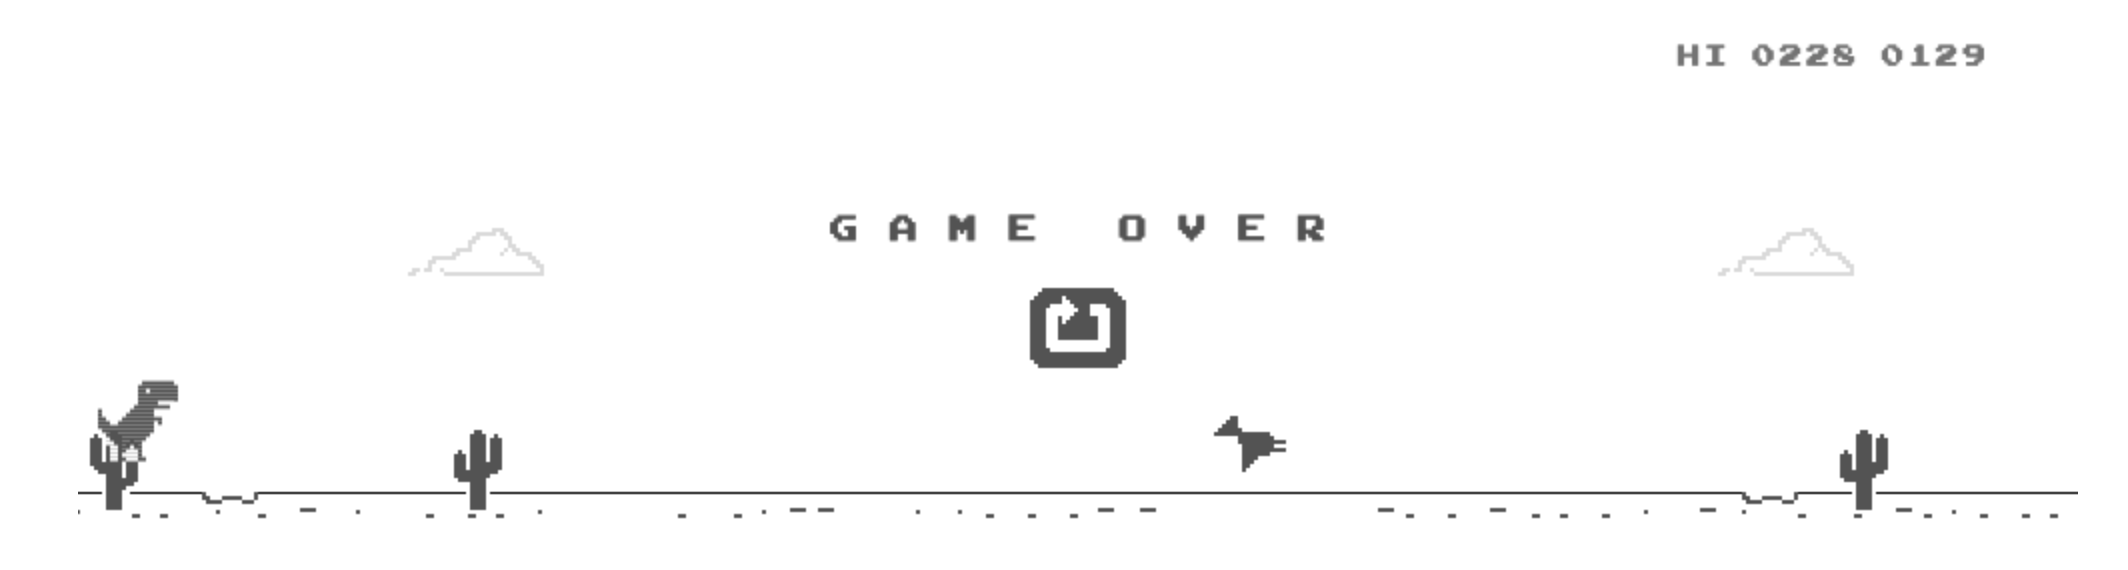
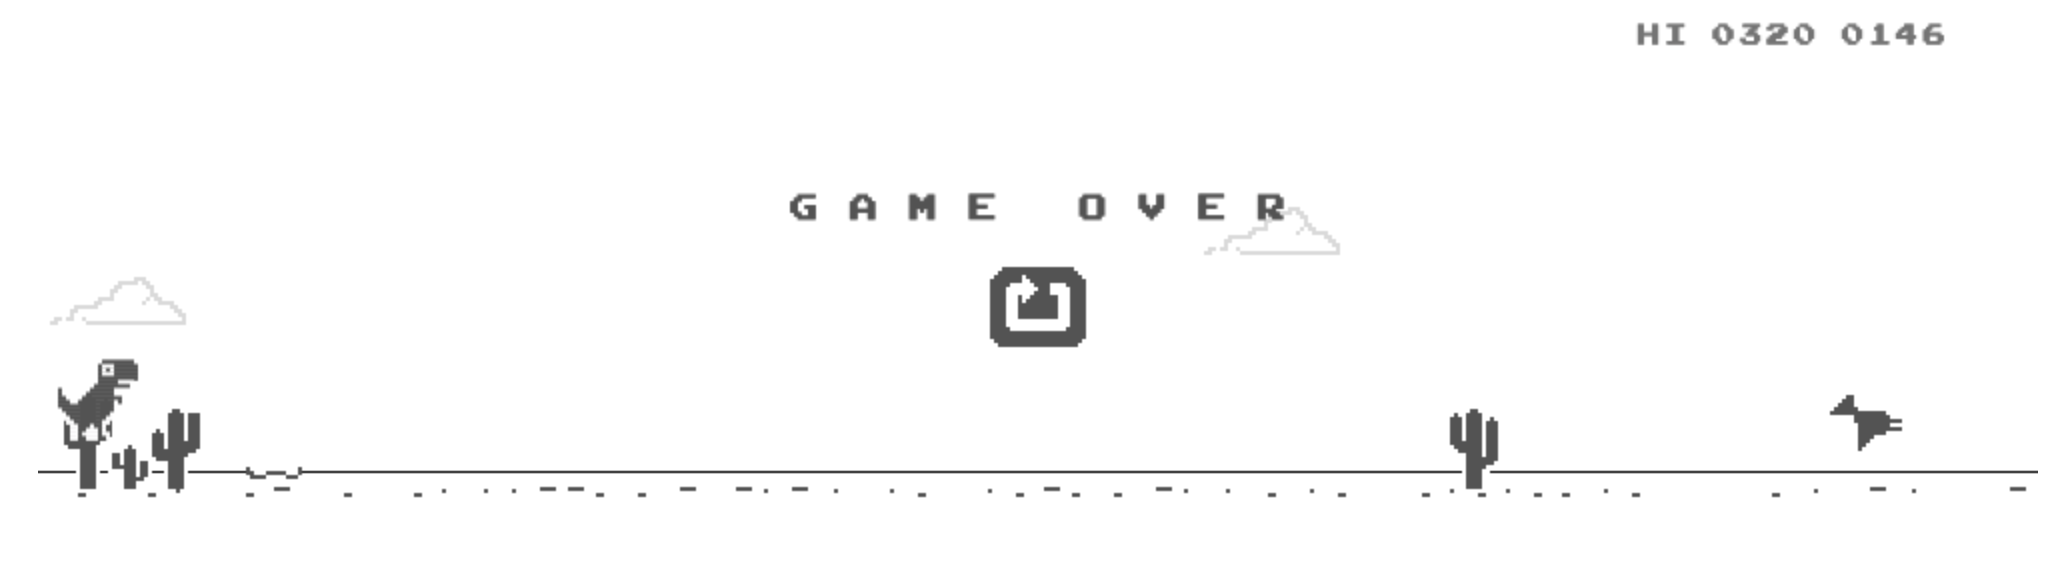
added additional characters

diff --git a/www/layouts.js b/www/layouts.js
@@ -1,10 +1,33 @@
 const COLORS = [false, "#ffffff", "#535353", "#dadada", "#535353"]
 
+
 const DINO_STAND = [
     [0, 0, 0, 0, 0, 0, 0, 0, 0, 1, 1, 2, 2, 2, 2, 2, 2, 2, 2, 1],
     [0, 0, 0, 0, 0, 0, 0, 0, 0, 1, 2, 2, 2, 2, 2, 2, 2, 2, 2, 2],
     [0, 0, 0, 0, 0, 0, 0, 0, 0, 1, 2, 2, 1, 2, 2, 2, 2, 2, 2, 2],
     [0, 0, 0, 0, 0, 0, 0, 0, 0, 1, 2, 2, 2, 2, 2, 2, 2, 2, 2, 2],
+    [0, 0, 0, 0, 0, 0, 0, 0, 0, 1, 2, 2, 2, 2, 2, 2, 2, 2, 2, 2],
+    [0, 0, 0, 0, 0, 0, 0, 0, 0, 1, 2, 2, 2, 2, 2, 1, 1, 1, 1, 0],
+    [1, 0, 0, 0, 0, 0, 0, 0, 1, 2, 2, 2, 2, 2, 2, 2, 2, 2, 1, 0],
+    [2, 1, 0, 0, 0, 0, 0, 1, 2, 2, 2, 2, 2, 2, 1, 1, 1, 1, 1, 0],
+    [2, 1, 0, 0, 0, 0, 1, 2, 2, 2, 2, 2, 2, 2, 1, 1, 1, 0, 0, 0],
+    [2, 2, 1, 0, 0, 1, 2, 2, 2, 2, 2, 2, 2, 2, 2, 2, 1, 0, 0, 0],
+    [2, 2, 2, 1, 1, 2, 2, 2, 2, 2, 2, 2, 2, 2, 1, 2, 1, 0, 0, 0],
+    [2, 2, 2, 2, 2, 2, 2, 2, 2, 2, 2, 2, 2, 2, 1, 1, 1, 0, 0, 0],
+    [1, 2, 2, 2, 2, 2, 2, 2, 2, 2, 2, 2, 2, 2, 1, 0, 0, 0, 0, 0],
+    [1, 1, 2, 2, 2, 2, 2, 2, 2, 2, 2, 2, 2, 1, 1, 0, 0, 0, 0, 0],
+    [0, 1, 1, 2, 2, 2, 2, 2, 2, 2, 2, 2, 1, 1, 0, 0, 0, 0, 0, 0],
+    [0, 0, 1, 1, 2, 2, 2, 2, 2, 2, 2, 1, 1, 0, 0, 0, 0, 0, 0, 0],
+    [0, 0, 0, 1, 1, 2, 2, 2, 1, 2, 2, 1, 0, 0, 0, 0, 0, 0, 0, 0],
+    [0, 0, 0, 1, 1, 2, 2, 1, 1, 1, 2, 1, 0, 0, 0, 0, 0, 0, 0, 0],
+    [0, 0, 0, 1, 1, 2, 1, 1, 1, 1, 2, 1, 1, 0, 0, 0, 0, 0, 0, 0],
+    [0, 0, 0, 1, 1, 2, 2, 1, 1, 1, 2, 2, 1, 0, 0, 0, 0, 0, 0, 0]
+];
+const DINO_DEAD = [
+    [0, 0, 0, 0, 0, 0, 0, 0, 0, 1, 1, 2, 2, 2, 2, 2, 2, 2, 2, 1],
+    [0, 0, 0, 0, 0, 0, 0, 0, 0, 1, 2, 1, 1, 1, 2, 2, 2, 2, 2, 2],
+    [0, 0, 0, 0, 0, 0, 0, 0, 0, 1, 2, 1, 2, 1, 2, 2, 2, 2, 2, 2],
+    [0, 0, 0, 0, 0, 0, 0, 0, 0, 1, 2, 1, 1, 1, 2, 2, 2, 2, 2, 2],
     [0, 0, 0, 0, 0, 0, 0, 0, 0, 1, 2, 2, 2, 2, 2, 2, 2, 2, 2, 2],
     [0, 0, 0, 0, 0, 0, 0, 0, 0, 1, 2, 2, 2, 2, 2, 1, 1, 1, 1, 0],
     [1, 0, 0, 0, 0, 0, 0, 0, 1, 2, 2, 2, 2, 2, 2, 2, 2, 2, 1, 0],
@@ -201,6 +224,84 @@ CACTUS_SMALL_D1 = [
     [0, 0, 0, 1, 2, 2, 2, 2, 1, 0, 0, 0, 0, 0, 0, 0, 1, 2, 2, 2, 2, 1, 0, 0, 0]
 ];
 
+const CACTUS_MEDIUM_S1 = [
+    [0, 0, 0, 1, 1, 2, 2, 1, 1, 1, 1, 1],
+    [0, 0, 0, 1, 2, 2, 2, 2, 1, 1, 2, 1],
+    [0, 0, 0, 1, 2, 2, 2, 2, 1, 2, 2, 2],
+    [0, 0, 0, 1, 2, 2, 2, 2, 1, 2, 2, 2],
+    [0, 0, 0, 1, 2, 2, 2, 2, 1, 2, 2, 2],
+    [1, 2, 1, 1, 2, 2, 2, 2, 1, 2, 2, 2],
+    [2, 2, 2, 1, 2, 2, 2, 2, 1, 2, 2, 2],
+    [2, 2, 2, 1, 2, 2, 2, 2, 1, 2, 2, 2],
+    [2, 2, 2, 1, 2, 2, 2, 2, 1, 2, 2, 2],
+    [2, 2, 2, 1, 2, 2, 2, 2, 2, 2, 2, 2],
+    [2, 2, 2, 1, 2, 2, 2, 2, 2, 2, 2, 2],
+    [2, 2, 2, 2, 2, 2, 2, 2, 2, 2, 2, 1],
+    [2, 2, 2, 2, 2, 2, 2, 2, 2, 1, 1, 1],
+    [1, 2, 2, 2, 2, 2, 2, 2, 1, 1, 0, 0],
+    [1, 1, 1, 1, 2, 2, 2, 2, 1, 0, 0, 0],
+    [0, 0, 0, 1, 2, 2, 2, 2, 1, 0, 0, 0],
+    [0, 0, 0, 1, 2, 2, 2, 2, 1, 0, 0, 0],
+    [0, 0, 0, 1, 2, 2, 2, 2, 1, 0, 0, 0],
+    [0, 0, 0, 1, 2, 2, 2, 2, 1, 0, 0, 0],
+    [0, 0, 0, 1, 2, 2, 2, 2, 1, 0, 0, 0],
+    [0, 0, 0, 1, 2, 2, 2, 2, 1, 0, 0, 0],
+    [0, 0, 0, 1, 2, 2, 2, 2, 1, 0, 0, 0],
+    [0, 0, 0, 1, 2, 2, 2, 2, 1, 0, 0, 0],
+    [0, 0, 0, 1, 2, 2, 2, 2, 1, 0, 0, 0]
+];
+const CACTUS_MEDIUM_S2 = [
+    [1, 1, 1, 1, 1, 2, 2, 1, 1, 0, 0, 0],
+    [1, 2, 1, 1, 2, 2, 2, 2, 1, 0, 0, 0],
+    [2, 2, 2, 1, 2, 2, 2, 2, 1, 0, 0, 0],
+    [2, 2, 2, 1, 2, 2, 2, 2, 1, 0, 0, 0],
+    [2, 2, 2, 1, 2, 2, 2, 2, 1, 0, 0, 0],
+    [2, 2, 2, 1, 2, 2, 2, 2, 1, 1, 2, 1],
+    [2, 2, 2, 1, 2, 2, 2, 2, 1, 2, 2, 2],
+    [2, 2, 2, 1, 2, 2, 2, 2, 1, 2, 2, 2],
+    [2, 2, 2, 1, 2, 2, 2, 2, 1, 2, 2, 2],
+    [2, 2, 2, 2, 2, 2, 2, 2, 1, 2, 2, 2],
+    [2, 2, 2, 2, 2, 2, 2, 2, 1, 2, 2, 2],
+    [1, 2, 2, 2, 2, 2, 2, 2, 2, 2, 2, 2],
+    [1, 1, 1, 2, 2, 2, 2, 2, 2, 2, 2, 2],
+    [0, 0, 1, 1, 2, 2, 2, 2, 2, 2, 2, 1],
+    [0, 0, 0, 1, 2, 2, 2, 2, 1, 1, 1, 1],
+    [0, 0, 0, 1, 2, 2, 2, 2, 1, 0, 0, 0],
+    [0, 0, 0, 1, 2, 2, 2, 2, 1, 0, 0, 0],
+    [0, 0, 0, 1, 2, 2, 2, 2, 1, 0, 0, 0],
+    [0, 0, 0, 1, 2, 2, 2, 2, 1, 0, 0, 0],
+    [0, 0, 0, 1, 2, 2, 2, 2, 1, 0, 0, 0],
+    [0, 0, 0, 1, 2, 2, 2, 2, 1, 0, 0, 0],
+    [0, 0, 0, 1, 2, 2, 2, 2, 1, 0, 0, 0],
+    [0, 0, 0, 1, 2, 2, 2, 2, 1, 0, 0, 0],
+    [0, 0, 0, 1, 2, 2, 2, 2, 1, 0, 0, 0]
+];
+const CACTUS_MEDIUM_D1 = [
+    [0, 0, 0, 1, 1, 2, 2, 1, 1, 1, 1, 1, 0, 0, 0, 0, 0, 0, 0, 0, 0, 0, 0, 0, 0, 0, 0, 0, 0, 0, 0, 0, 0, 0],
+    [0, 0, 0, 1, 2, 2, 2, 2, 1, 1, 2, 1, 1, 0, 0, 0, 0, 0, 0, 0, 0, 0, 0, 0, 0, 0, 0, 0, 0, 0, 0, 0, 0, 0],
+    [0, 0, 0, 1, 2, 2, 2, 2, 1, 2, 2, 2, 1, 0, 0, 0, 0, 0, 0, 0, 0, 0, 0, 0, 0, 0, 0, 0, 0, 0, 0, 0, 0, 0],
+    [0, 0, 0, 1, 2, 2, 2, 2, 1, 2, 2, 2, 1, 0, 0, 0, 0, 0, 0, 0, 0, 0, 0, 0, 0, 0, 0, 0, 0, 0, 0, 0, 0, 0],
+    [0, 0, 0, 1, 2, 2, 2, 2, 1, 2, 2, 2, 1, 0, 0, 0, 0, 0, 0, 0, 0, 0, 0, 0, 0, 1, 1, 2, 2, 1, 1, 1, 1, 1],
+    [1, 2, 1, 1, 2, 2, 2, 2, 1, 2, 2, 2, 1, 0, 0, 0, 0, 0, 0, 0, 0, 0, 0, 0, 0, 1, 2, 2, 2, 2, 1, 2, 2, 2],
+    [2, 2, 2, 1, 2, 2, 2, 2, 1, 2, 2, 2, 1, 0, 0, 0, 0, 0, 0, 0, 0, 0, 0, 0, 0, 1, 2, 2, 2, 2, 1, 2, 2, 2],
+    [2, 2, 2, 1, 2, 2, 2, 2, 1, 2, 2, 2, 1, 0, 0, 0, 0, 0, 0, 0, 0, 0, 0, 0, 0, 1, 2, 2, 2, 2, 1, 2, 2, 2],
+    [2, 2, 2, 1, 2, 2, 2, 2, 1, 2, 2, 2, 1, 0, 0, 0, 0, 0, 0, 0, 0, 1, 1, 1, 1, 1, 2, 2, 2, 2, 1, 2, 2, 2],
+    [2, 2, 2, 1, 2, 2, 2, 2, 2, 2, 2, 2, 1, 0, 0, 0, 0, 0, 0, 0, 0, 1, 1, 2, 1, 1, 2, 2, 2, 2, 1, 2, 2, 2],
+    [2, 2, 2, 1, 2, 2, 2, 2, 2, 2, 2, 2, 1, 0, 0, 0, 0, 0, 0, 0, 0, 1, 2, 2, 2, 1, 2, 2, 2, 2, 1, 2, 2, 2],
+    [2, 2, 2, 2, 2, 2, 2, 2, 2, 2, 2, 1, 1, 0, 0, 0, 0, 0, 0, 0, 0, 1, 2, 2, 2, 1, 2, 2, 2, 2, 1, 2, 2, 2],
+    [2, 2, 2, 2, 2, 2, 2, 2, 2, 1, 1, 1, 1, 0, 0, 1, 1, 1, 0, 0, 0, 1, 2, 2, 2, 1, 2, 2, 2, 2, 2, 2, 2, 2],
+    [1, 2, 2, 2, 2, 2, 2, 2, 1, 1, 0, 0, 1, 0, 1, 1, 2, 1, 1, 0, 0, 1, 2, 2, 2, 1, 2, 2, 2, 2, 2, 2, 2, 2],
+    [1, 1, 1, 1, 2, 2, 2, 2, 1, 0, 0, 1, 1, 1, 1, 2, 2, 2, 1, 0, 0, 1, 2, 2, 2, 2, 2, 2, 2, 2, 2, 2, 2, 1],
+    [0, 0, 0, 1, 2, 2, 2, 2, 1, 0, 0, 1, 2, 2, 1, 2, 2, 2, 1, 0, 0, 1, 2, 2, 2, 2, 2, 2, 2, 2, 2, 1, 1, 1],
+    [0, 0, 0, 1, 2, 2, 2, 2, 1, 0, 0, 1, 2, 2, 1, 2, 2, 2, 1, 1, 1, 1, 1, 2, 2, 2, 2, 2, 2, 2, 1, 1, 0, 0],
+    [0, 0, 0, 1, 2, 2, 2, 2, 1, 0, 0, 1, 2, 2, 1, 2, 2, 2, 1, 2, 2, 1, 1, 1, 1, 1, 2, 2, 2, 2, 1, 0, 0, 0],
+    [0, 0, 0, 1, 2, 2, 2, 2, 1, 0, 0, 1, 2, 2, 2, 2, 2, 2, 1, 2, 2, 1, 0, 0, 0, 1, 2, 2, 2, 2, 1, 0, 0, 0],
+    [0, 0, 0, 1, 2, 2, 2, 2, 1, 0, 0, 1, 1, 1, 1, 2, 2, 2, 1, 2, 2, 1, 0, 0, 0, 1, 2, 2, 2, 2, 1, 0, 0, 0],
+    [0, 0, 0, 1, 2, 2, 2, 2, 1, 0, 0, 0, 0, 0, 1, 2, 2, 2, 1, 2, 2, 1, 0, 0, 0, 1, 2, 2, 2, 2, 1, 0, 0, 0],
+    [0, 0, 0, 1, 2, 2, 2, 2, 1, 0, 0, 0, 0, 0, 1, 2, 2, 2, 2, 2, 1, 1, 0, 0, 0, 1, 2, 2, 2, 2, 1, 0, 0, 0],
+    [0, 0, 0, 1, 2, 2, 2, 2, 1, 0, 0, 0, 0, 0, 1, 2, 2, 2, 1, 1, 1, 0, 0, 0, 0, 1, 2, 2, 2, 2, 1, 0, 0, 0],
+    [0, 0, 0, 1, 2, 2, 2, 2, 1, 0, 0, 0, 0, 0, 1, 2, 2, 2, 1, 0, 0, 0, 0, 0, 0, 1, 2, 2, 2, 2, 1, 0, 0, 0]
+];
 
 const ROAD = [[2, 2, 2]];
 
@@ -234,6 +335,7 @@ const RETRY = [
 module.exports = {
     dino_layout: {
         stand: DINO_STAND,
+        dead: DINO_DEAD,
         run: [
             DINO_LEFT_LEG_UP, DINO_RIGHT_LEG_UP
         ],
@@ -257,7 +359,10 @@ module.exports = {
     cactus_layout: {
         small_s1: CACTUS_SMALL_S1,
         small_s2: CACTUS_SMALL_S2,
-        small_d1: CACTUS_SMALL_D1
+        small_d1: CACTUS_SMALL_D1,
+        medium_s1: CACTUS_MEDIUM_S1,
+        medium_s2: CACTUS_MEDIUM_S2,
+        medium_d1: CACTUS_MEDIUM_D1
     },
     retry_layout: RETRY,
     colors: COLORS

diff --git a/www/index.js b/www/index.js
@@ -59,10 +59,13 @@ let harmfull_character_allocator = [
     new CharacterAllocator(
         new AllocatorCharacterArray()
             .add_character(new CharacterMeta([cactus_layout.small_d1], 0, new Position(201, COLUMNS), FLOOR_VELOCITY), 0.8)
-            .add_character(new CharacterMeta([cactus_layout.small_s1], 0, new Position(201, COLUMNS), FLOOR_VELOCITY), 0.5)
-            .add_character(new CharacterMeta([cactus_layout.small_s2], 0, new Position(201, COLUMNS), FLOOR_VELOCITY), 0.3)
+            .add_character(new CharacterMeta([cactus_layout.small_s1], 0, new Position(201, COLUMNS), FLOOR_VELOCITY), 0.7)
+            .add_character(new CharacterMeta([cactus_layout.small_s2], 0, new Position(201, COLUMNS), FLOOR_VELOCITY), 0.6)
+            .add_character(new CharacterMeta([cactus_layout.medium_d1], 0, new Position(193, COLUMNS), FLOOR_VELOCITY), 0.5)
+            .add_character(new CharacterMeta([cactus_layout.medium_s1], 0, new Position(193, COLUMNS), FLOOR_VELOCITY), 0.4)
+            .add_character(new CharacterMeta([cactus_layout.medium_s2], 0, new Position(193, COLUMNS), FLOOR_VELOCITY), 0.3)
 
-        , 10, 100
+        , 10, 150
     ),
     new CharacterAllocator(
         new AllocatorCharacterArray()
@@ -182,19 +185,9 @@ function event_loop() {
         }
     });
 
-    // dino jump case
-    let dino_character = harmfull_characters_pool[0];
-    dino_character.set_position(applyVelocityToPosition(dino_character.get_position(), dino_current_trust));
-
-    if (dino_character.get_position().get()[0] > DINO_FLOOR_INITIAL_POSITION.get()[0]) {
-        dino_character.set_position(DINO_FLOOR_INITIAL_POSITION.clone());
-        dino_ready_to_jump = true;
-    }
-
-    dino_current_trust.sub(ENVIRONMENT_GRAVITY);
-
 
     // harmfull characters collision detection
+    let dino_character = harmfull_characters_pool[0];
     let dino_current_position = dino_character.get_position();
     let dino_current_layout = dino_character.get_layout();
     for (let i = harmfull_characters_pool.length - 1; i > 0; i--) {
@@ -207,6 +200,7 @@ function event_loop() {
             canvas_ctx.fillStyle = "#535353";
             canvas_ctx.fillText("G     A     M     E             O     V     E     R", canvas.width / 2, (canvas.height / 2) - 50);
             paint_layout(retry_layout, new Position((canvas.height / 2) - retry_layout.length, (canvas.width / 2) - retry_layout[0].length).get());
+            paint_layout(dino_layout.dead, harmfull_characters_pool[0].get_position().get());
             game_over = Date.now();
 
 
@@ -217,6 +211,16 @@ function event_loop() {
             return;
         }
     }
+
+    // dino jump case
+    dino_character.set_position(applyVelocityToPosition(dino_character.get_position(), dino_current_trust));
+
+    if (dino_character.get_position().get()[0] > DINO_FLOOR_INITIAL_POSITION.get()[0]) {
+        dino_character.set_position(DINO_FLOOR_INITIAL_POSITION.clone());
+        dino_ready_to_jump = true;
+    }
+
+    dino_current_trust.sub(ENVIRONMENT_GRAVITY);
 
     requestAnimationFrame(event_loop);
 }
